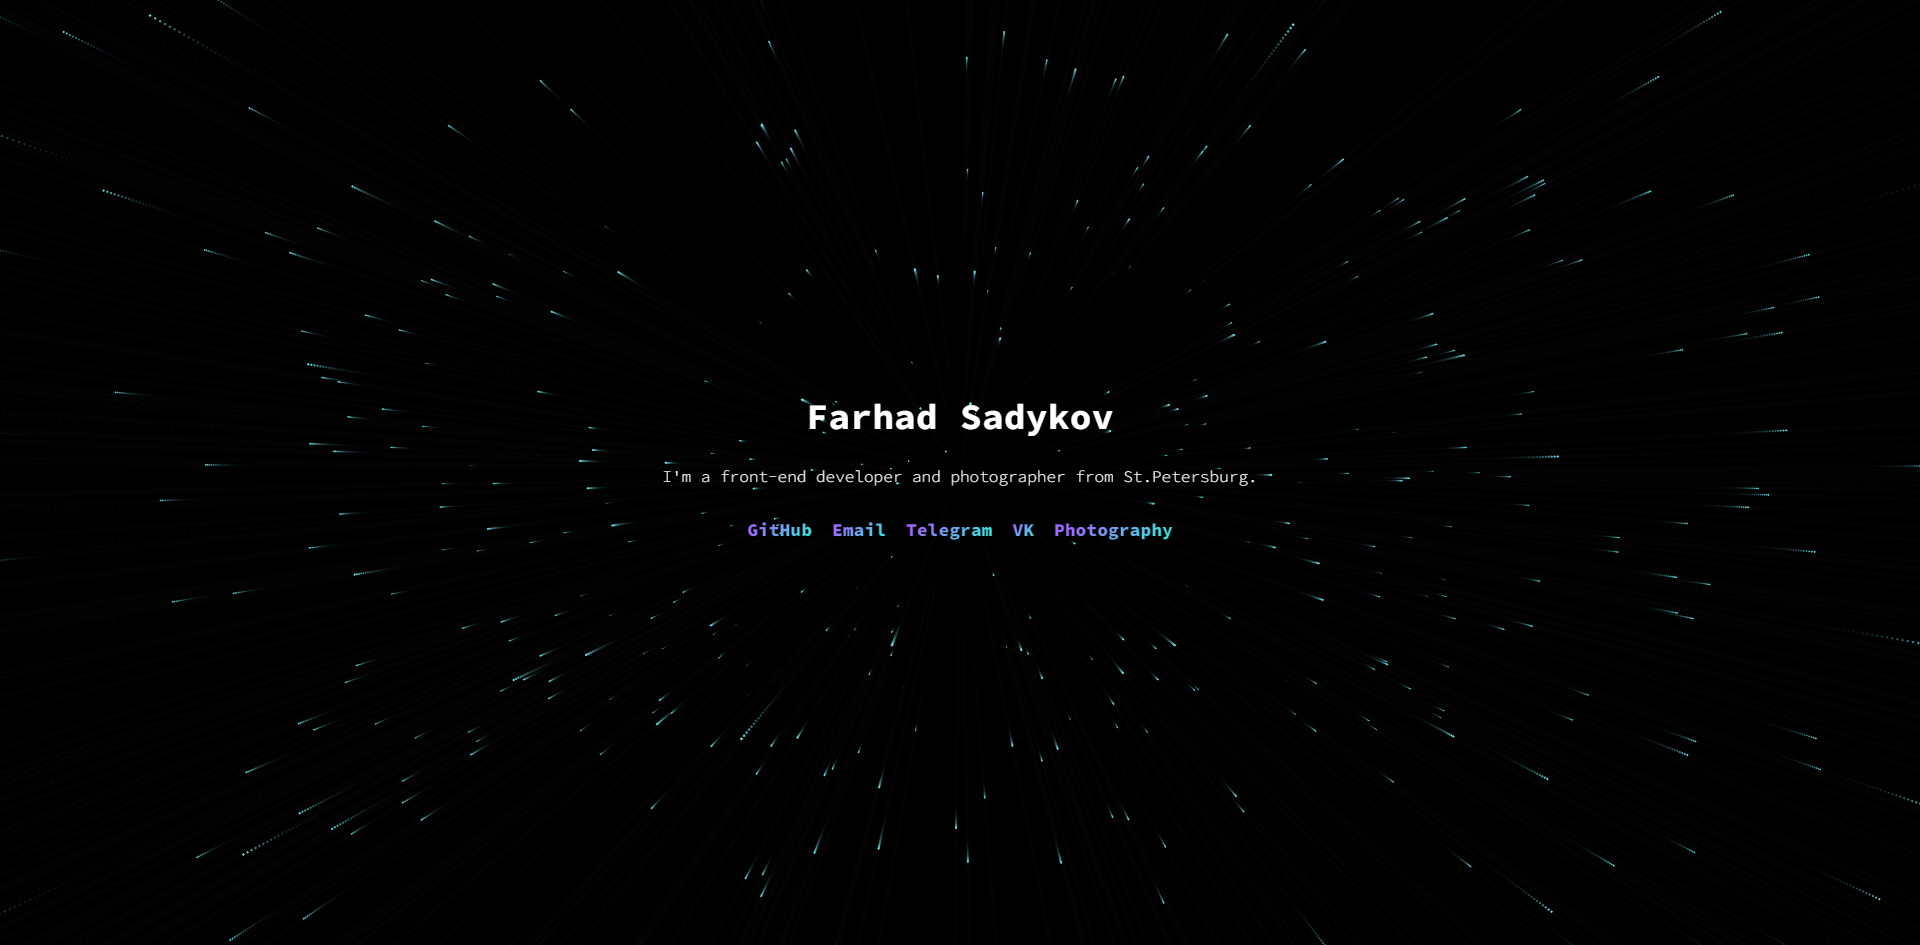
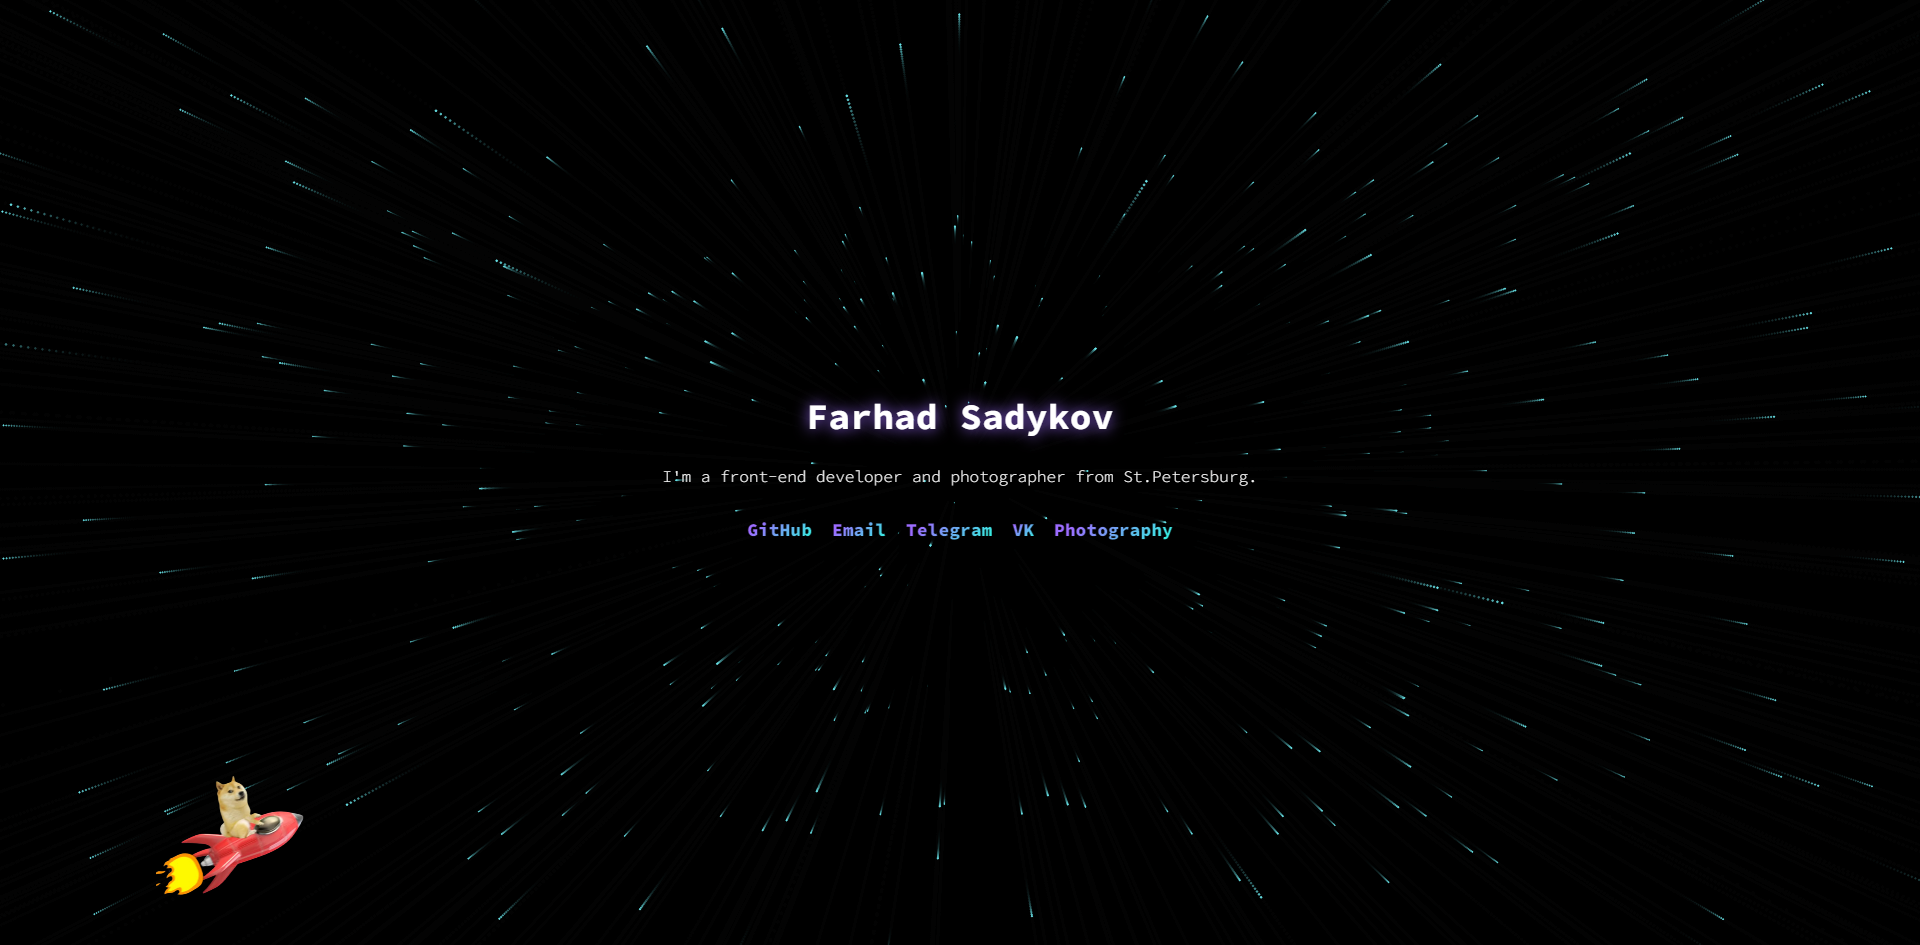
space doge animation and shadow for title

Changed region(s): [[0.0625, 0.8286, 0.1562, 0.9513], [0.4062, 0.3989, 0.5938, 0.4603]]

diff --git a/www/style/style.css b/www/style/style.css
@@ -72,9 +72,14 @@ canvas {
   position: fixed;
   top: 0;
   left: 0;
-  z-index: -1;
+  z-index: -2;
   width: 100%;
   height: 100vh;
+}
+
+img {
+  display: block;
+  width: 100%;
 }
 
 .home-container {
@@ -100,6 +105,7 @@ canvas {
   font-weight: 700;
   letter-spacing: 0.01em;
   text-align: center;
+  text-shadow: 0 0 15px rgb(156, 108, 255);
   transform: scale3d(1, 1, 1);
 }
 .home-title:before, .home-title:after {
@@ -125,67 +131,67 @@ canvas {
 }
 @keyframes noise {
   0% {
-    clip: rect(50px, 9999px, 28px, 0);
+    clip: rect(22px, 9999px, 40px, 0);
   }
   5% {
-    clip: rect(49px, 9999px, 75px, 0);
+    clip: rect(16px, 9999px, 70px, 0);
   }
   10% {
-    clip: rect(2px, 9999px, 12px, 0);
+    clip: rect(42px, 9999px, 93px, 0);
   }
   15% {
-    clip: rect(33px, 9999px, 18px, 0);
+    clip: rect(2px, 9999px, 11px, 0);
   }
   20% {
-    clip: rect(82px, 9999px, 81px, 0);
+    clip: rect(24px, 9999px, 55px, 0);
   }
   25% {
-    clip: rect(80px, 9999px, 59px, 0);
+    clip: rect(41px, 9999px, 42px, 0);
   }
   30% {
-    clip: rect(56px, 9999px, 20px, 0);
+    clip: rect(85px, 9999px, 49px, 0);
   }
   35% {
-    clip: rect(30px, 9999px, 80px, 0);
+    clip: rect(99px, 9999px, 66px, 0);
   }
   40% {
-    clip: rect(22px, 9999px, 74px, 0);
+    clip: rect(12px, 9999px, 32px, 0);
   }
   45% {
-    clip: rect(73px, 9999px, 20px, 0);
+    clip: rect(56px, 9999px, 86px, 0);
   }
   50% {
-    clip: rect(1px, 9999px, 51px, 0);
+    clip: rect(91px, 9999px, 13px, 0);
   }
   55% {
-    clip: rect(43px, 9999px, 6px, 0);
+    clip: rect(16px, 9999px, 22px, 0);
   }
   60% {
-    clip: rect(44px, 9999px, 68px, 0);
+    clip: rect(29px, 9999px, 6px, 0);
   }
   65% {
-    clip: rect(50px, 9999px, 39px, 0);
+    clip: rect(86px, 9999px, 28px, 0);
   }
   70% {
-    clip: rect(27px, 9999px, 55px, 0);
+    clip: rect(24px, 9999px, 57px, 0);
   }
   75% {
-    clip: rect(60px, 9999px, 51px, 0);
+    clip: rect(93px, 9999px, 97px, 0);
   }
   80% {
-    clip: rect(71px, 9999px, 90px, 0);
+    clip: rect(59px, 9999px, 28px, 0);
   }
   85% {
-    clip: rect(74px, 9999px, 45px, 0);
+    clip: rect(72px, 9999px, 38px, 0);
   }
   90% {
-    clip: rect(32px, 9999px, 58px, 0);
+    clip: rect(84px, 9999px, 48px, 0);
   }
   95% {
-    clip: rect(97px, 9999px, 70px, 0);
+    clip: rect(54px, 9999px, 42px, 0);
   }
   100% {
-    clip: rect(91px, 9999px, 65px, 0);
+    clip: rect(39px, 9999px, 48px, 0);
   }
 }
 @media (max-width: 1279px) {
@@ -253,6 +259,27 @@ canvas {
 @media (max-width: 1279px) {
   .home-link {
     font-size: 16px;
+  }
+}
+
+.doge {
+  position: absolute;
+  left: -150px;
+  bottom: -150px;
+  z-index: -1;
+  width: 150px;
+  height: 150px;
+  object-fit: contain;
+  animation: dogeToTheMoon 3s linear alternate 7s;
+}
+@keyframes dogeToTheMoon {
+  from {
+    transform: scale(1.5);
+  }
+  to {
+    left: 43%;
+    bottom: 43%;
+    transform: scale(0);
   }
 }
 
@@ -1021,4 +1048,4 @@ body[data-aos-easing=ease-out-quart] [data-aos], [data-aos][data-aos][data-aos-e
 body[data-aos-easing=ease-in-out-quart] [data-aos], [data-aos][data-aos][data-aos-easing=ease-in-out-quart] {
   transition-timing-function: cubic-bezier(0.455, 0.03, 0.515, 0.955);
 }
[2 lines of base64/hex data omitted]

diff --git a/src/styles/blocks/_doge.scss b/src/styles/blocks/_doge.scss
@@ -1,0 +1,21 @@
+.doge {
+  position: absolute;
+  left: -150px;
+  bottom: -150px;
+  z-index: -1;
+  width: 150px;
+  height: 150px;
+  object-fit: contain;
+  animation: dogeToTheMoon 3s linear alternate 7s;
+
+  @keyframes dogeToTheMoon {
+    from{
+      transform: scale(1.5);
+    }
+    to{
+      left: 43%;
+      bottom: 43%;
+      transform: scale(0);
+    }
+  }
+}

diff --git a/src/styles/blocks/_home.scss b/src/styles/blocks/_home.scss
@@ -19,6 +19,7 @@
   font-weight: 700;
   letter-spacing: 0.01em;
   text-align: center;
+  text-shadow: 0 0 15px rgba(156,108,255,1);
   transform: scale3d(1,1,1);
 
   &:before, &:after {
@@ -61,7 +62,6 @@
 
 .home-desc {
   margin-bottom: 20px;
-  // width: 50%;
   color: #fff;
   font-size: 16px;
   font-weight: 200;

diff --git a/www/index.html b/www/index.html
@@ -11,6 +11,9 @@
 
 <body>
     <canvas class="canvas"></canvas>
+    <div class="doge">
+      <img class="doge-img" src="../images/doge-on-the-rocket.png" alt="Doge on the rocket">
+    </div>
     <main class="main">
       <div class="home-container">
         <div class="home-wrap">

diff --git a/src/styles/common/_common.scss b/src/styles/common/_common.scss
@@ -16,7 +16,12 @@ canvas {
   position: fixed;
   top: 0;
   left: 0;
-  z-index: -1;
+  z-index: -2;
   width: 100%;
   height: 100vh;
+}
+
+img {
+  display: block;
+  width: 100%;
 }

diff --git a/src/styles/style.scss b/src/styles/style.scss
@@ -6,6 +6,7 @@
 
 // blocks
 @import "blocks/_home";
+@import "blocks/_doge";
 
 // plugins
 @import "plugins/aos_custom";
